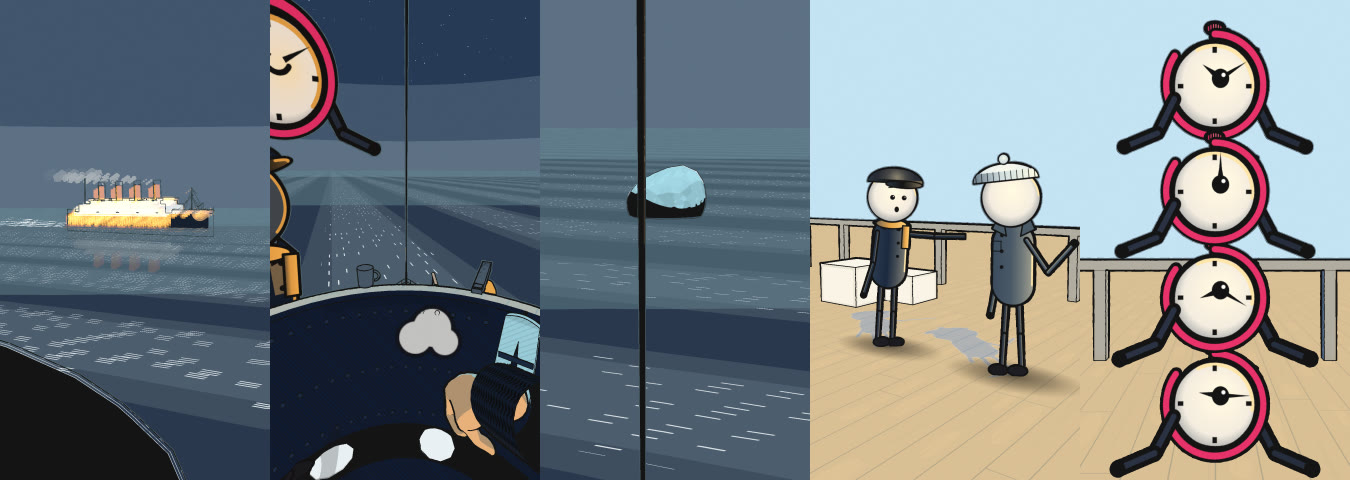
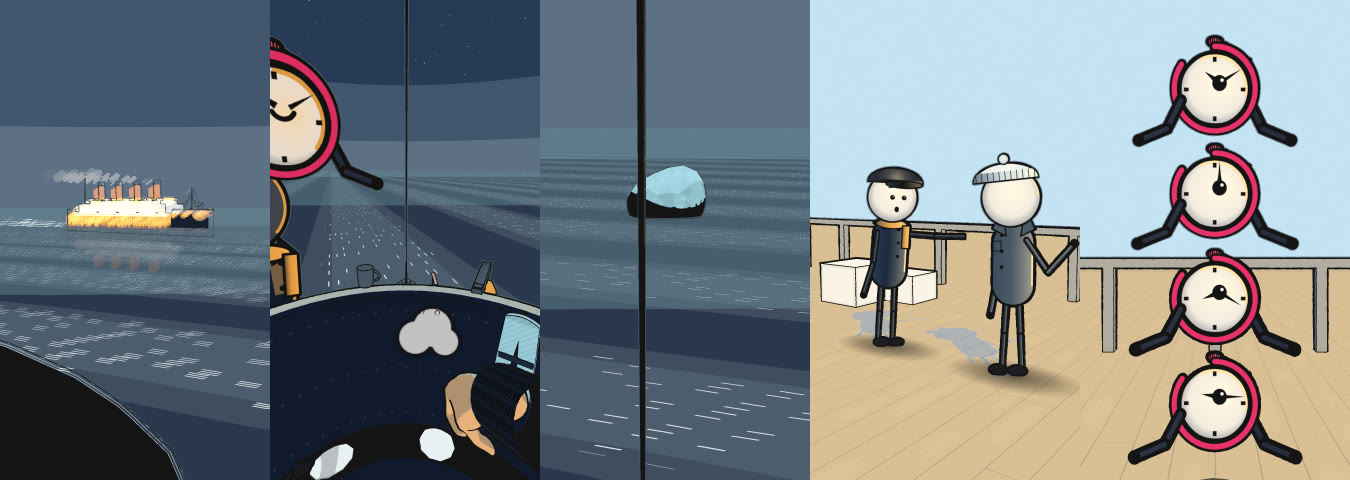
review: styleframes [skip ci]

Changed region(s): [[0.7778, 0.0312, 1.0, 1.0], [0.1867, 0.0, 0.28, 0.4062]]

diff --git a/review/styleframes/critique.md b/review/styleframes/critique.md
@@ -1,4 +1,4 @@
-# Style frame critique (generated by tools/stills.mjs, commit b226bf5)
+# Style frame critique (generated by tools/stills.mjs, commit 4cc654c)
 
 Facts from tools/measure.mjs; regenerated on every stills run.
 
@@ -9,8 +9,8 @@ Facts from tools/measure.mjs; regenerated on every stills run.
 - image: https://github.com/NeatKnight18586/inktime/raw/renders/renders/styleframes/F1_aerial.png
 
 ## F2_lookout: Lookout at 2 s: the hands and the deck lamps are the brightest; Fleet dark at the left, Tick floating above his head line (focus: hands and deck lamps)
-- lumaMean 71.2, dark40 34.9%, p5 20, p95 193, sat 0.403
-- notan dark 46.9% / mid 47.0% / light 6.1%
+- lumaMean 70.1, dark40 34.8%, p5 20, p95 193, sat 0.408
+- notan dark 48.8% / mid 45.7% / light 5.6%
 - brightest cluster 2 cells, peak luma 239, 4 cells from the focus anchor (WARN)
 - image: https://github.com/NeatKnight18586/inktime/raw/renders/renders/styleframes/F2_lookout.png
 
@@ -27,9 +27,9 @@ Facts from tools/measure.mjs; regenerated on every stills run.
 - image: https://github.com/NeatKnight18586/inktime/raw/renders/renders/styleframes/F4_day.png
 
 ## F5_tick_day: Tick close-up in day light: the four expressions top to bottom (calm 10:10, alert 12:00, sad 8:20, worried 9:15), countdown ring at 34/40 (focus: the faces)
-- lumaMean 174.3, dark40 12.9%, p5 20, p95 241, sat 0.227
-- notan dark 3.5% / mid 24.8% / light 71.7% (dark-mass WARN)
-- brightest cluster 13 cells, peak luma 244, 1 cells from the focus anchor (ok)
+- lumaMean 183.0, dark40 9.2%, p5 20, p95 239, sat 0.232
+- notan dark 3.0% / mid 15.5% / light 81.6% (dark-mass WARN)
+- brightest cluster 10 cells, peak luma 243, 0 cells from the focus anchor (ok)
 - image: https://github.com/NeatKnight18586/inktime/raw/renders/renders/styleframes/F5_tick_day.png
 
 ## See-through test: PASS
